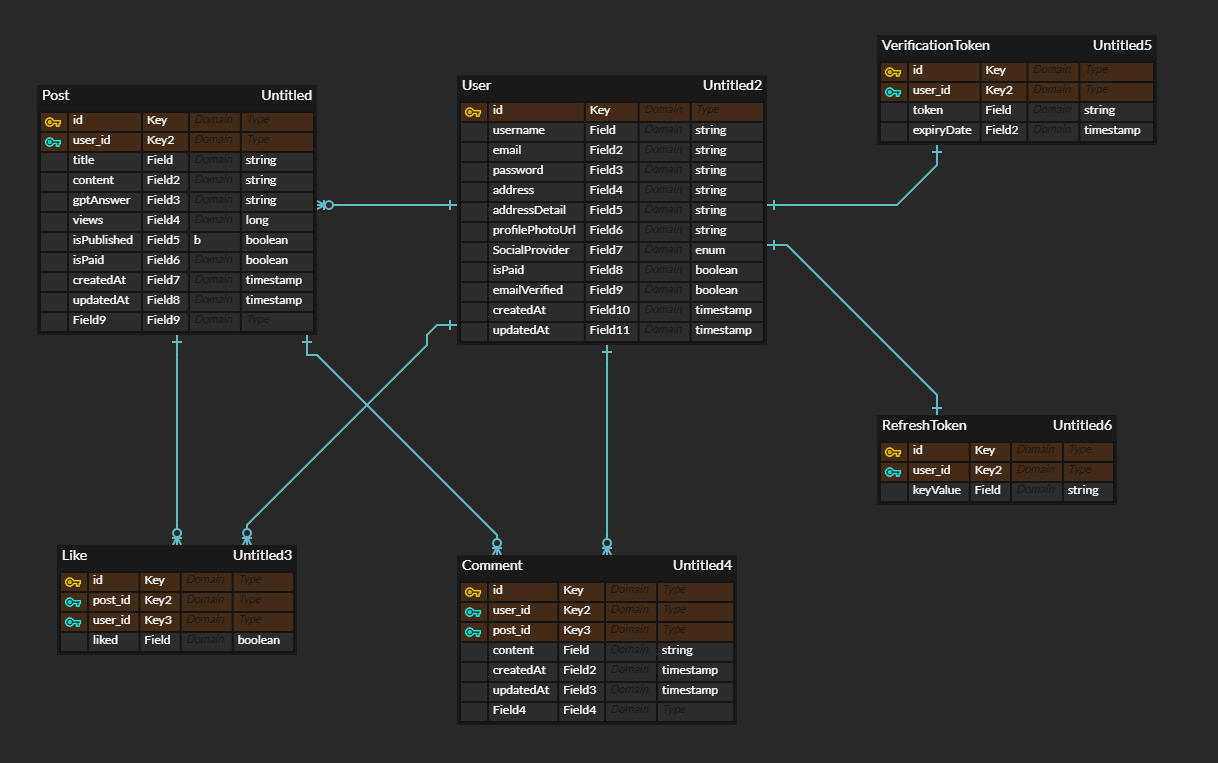
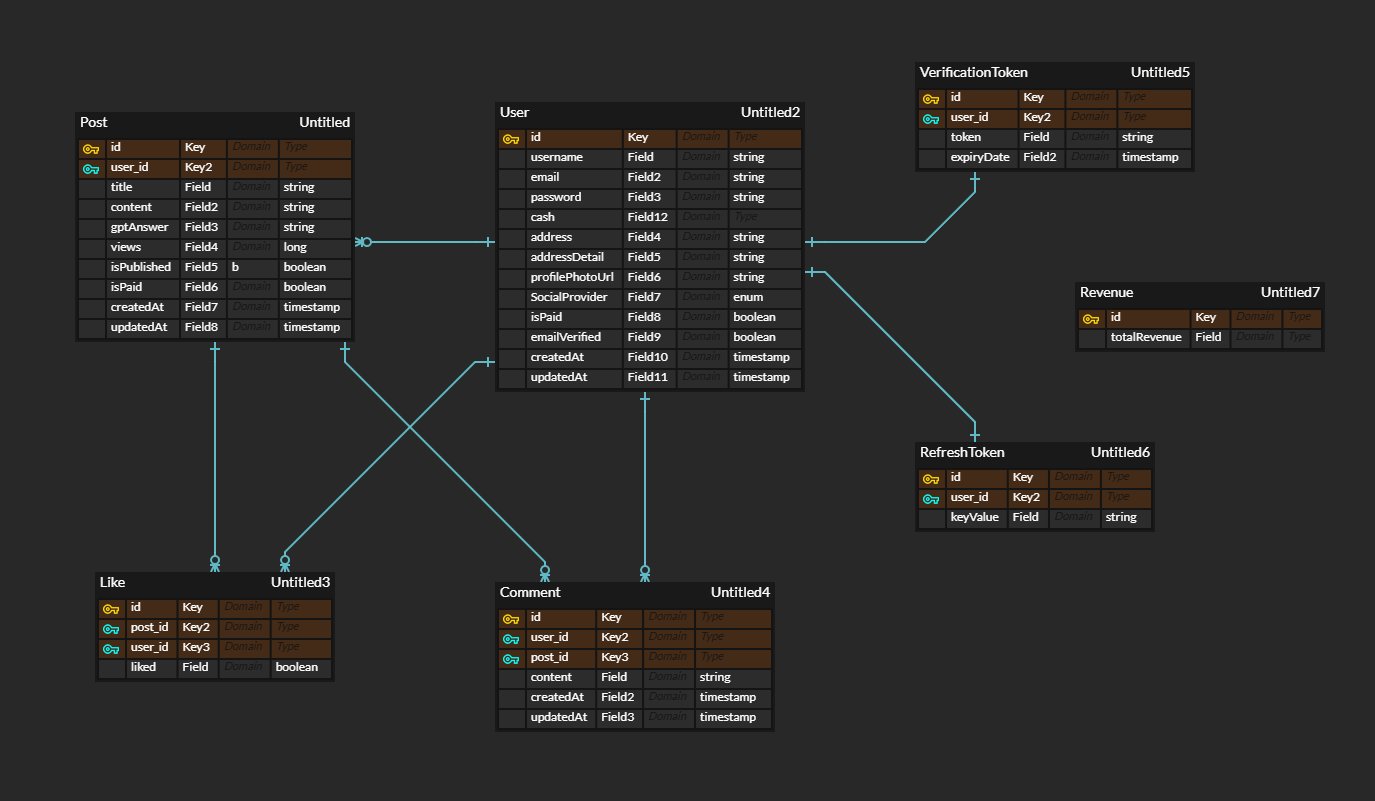
docs : README.md 최종 수정

diff --git a/src/test/java/com/ll/medium/common/config/MonthlyEarningSchedulerTest.java b/src/test/java/com/ll/medium/common/config/MonthlyEarningSchedulerTest.java
@@ -2,6 +2,7 @@ package com.ll.medium.common.config;
 
 import com.ll.medium.post.repository.PostRepository;
 import org.junit.Test;
+import org.junit.jupiter.api.DisplayName;
 import org.junit.runner.RunWith;
 import org.springframework.beans.factory.annotation.Autowired;
 import org.springframework.boot.test.context.SpringBootTest;
@@ -19,7 +20,8 @@ public class MonthlyEarningSchedulerTest {
     private MonthlyEarningScheduler monthlyEarningScheduler;
 
     @Test
-    public void testDistributeEarningsIntegration() {
+    @DisplayName("정산 기능 잘 되는지 테스트")
+    public void testDistributeEarnings() {
        monthlyEarningScheduler.distributeEarnings();
     }
 }

diff --git a/README.md b/README.md
@@ -25,11 +25,273 @@
 
 <hr>
 
-## ERD (업데이트 예정)
+## ERD
 
-![img_3.png](ERD.png)
+![img.png](ERD.png)
 
-## 4. 프로젝트 진행 상황
+## 파일 구조
+
+**[프론트엔드]**
+```bash
+📦src
+ ┣ 📂api
+ ┣ 📂app
+ ┃ ┣ 📂ai
+ ┃ ┃ ┗ 📜page.js
+ ┃ ┣ 📂api
+ ┃ ┃ ┗ 📂confirmPayment
+ ┃ ┃ ┃ ┗ 📜route.js
+ ┃ ┣ 📂auth
+ ┃ ┃ ┣ 📂signin
+ ┃ ┃ ┃ ┣ 📂kakao
+ ┃ ┃ ┃ ┃ ┗ 📂callback
+ ┃ ┃ ┃ ┃ ┃ ┗ 📜page.js
+ ┃ ┃ ┃ ┗ 📜page.js
+ ┃ ┃ ┗ 📂signup
+ ┃ ┃ ┃ ┗ 📜page.js
+ ┃ ┣ 📂board
+ ┃ ┃ ┣ 📂write
+ ┃ ┃ ┃ ┣ 📂[id]
+ ┃ ┃ ┃ ┃ ┗ 📜page.js
+ ┃ ┃ ┃ ┗ 📜page.js
+ ┃ ┃ ┣ 📂[id]
+ ┃ ┃ ┃ ┗ 📜page.js
+ ┃ ┃ ┗ 📜page.js
+ ┃ ┣ 📂membership
+ ┃ ┃ ┣ 📂fail
+ ┃ ┃ ┃ ┗ 📜page.js
+ ┃ ┃ ┣ 📂success
+ ┃ ┃ ┃ ┗ 📜page.js
+ ┃ ┃ ┗ 📜page.js
+ ┃ ┣ 📂mypage
+ ┃ ┃ ┣ 📂mycomment
+ ┃ ┃ ┃ ┗ 📜page.js
+ ┃ ┃ ┣ 📂mypost
+ ┃ ┃ ┃ ┗ 📜page.js
+ ┃ ┃ ┣ 📂myrecommend
+ ┃ ┃ ┃ ┗ 📜page.js
+ ┃ ┃ ┣ 📂userinfo
+ ┃ ┃ ┃ ┣ 📂delete
+ ┃ ┃ ┃ ┃ ┗ 📜page.js
+ ┃ ┃ ┃ ┣ 📂edit
+ ┃ ┃ ┃ ┃ ┗ 📜page.js
+ ┃ ┃ ┃ ┗ 📜page.js
+ ┃ ┃ ┣ 📜layout.js
+ ┃ ┃ ┗ 📜page.js
+ ┃ ┣ 📜layout.js
+ ┃ ┗ 📜page.js
+ ┣ 📂components
+ ┃ ┣ 📂auth
+ ┃ ┃ ┣ 📜DeleteUser.js
+ ┃ ┃ ┣ 📜EditUser.js
+ ┃ ┃ ┣ 📜KakaoLogin.js
+ ┃ ┃ ┣ 📜KakaoSignInCallback.js
+ ┃ ┃ ┣ 📜MyPageUserInfo.js
+ ┃ ┃ ┣ 📜SigninForm.js
+ ┃ ┃ ┗ 📜SignupForm.js
+ ┃ ┣ 📂comment
+ ┃ ┃ ┗ 📜Comment.js
+ ┃ ┣ 📂membership
+ ┃ ┃ ┣ 📜Checkout.js
+ ┃ ┃ ┣ 📜MembershipInfo.js
+ ┃ ┃ ┗ 📜SuccessPage.js
+ ┃ ┣ 📂post
+ ┃ ┃ ┣ 📜AllPost.js
+ ┃ ┃ ┣ 📜EditPost.js
+ ┃ ┃ ┣ 📜LikeButton.js
+ ┃ ┃ ┣ 📜MyPost.js
+ ┃ ┃ ┣ 📜Pagination.js
+ ┃ ┃ ┣ 📜Post.js
+ ┃ ┃ ┣ 📜PostDetail.js
+ ┃ ┃ ┣ 📜RecentPost.js
+ ┃ ┃ ┣ 📜SearchPost.js
+ ┃ ┃ ┗ 📜WritePost.js
+ ┃ ┗ 📂ui
+ ┃ ┃ ┣ 📜Chatbot.js
+ ┃ ┃ ┣ 📜CustomToast.js
+ ┃ ┃ ┣ 📜Dropdown.js
+ ┃ ┃ ┣ 📜MyPageSidebar.js
+ ┃ ┃ ┣ 📜Navbar.js
+ ┃ ┃ ┗ 📜ProfilePicture.js
+ ┣ 📂config
+ ┃ ┗ 📜axios-config.js
+ ┣ 📂constants
+ ┃ ┗ 📜auth.js
+ ┣ 📂context
+ ┃ ┗ 📜TanStackProvider.js
+ ┣ 📂hooks
+ ┃ ┗ 📜useUser.js
+ ┣ 📂styles
+ ┃ ┣ 📜globals.css
+ ┃ ┗ 📜toss.css
+ ┗ 📂utils
+ ┃ ┣ 📜comment.js
+ ┃ ┣ 📜openai.js
+ ┃ ┣ 📜post.js
+ ┃ ┗ 📜regex.js
+```
+[백엔드]
+```bash
+📦src
+ ┣ 📂main
+ ┃ ┣ 📂generated
+ ┃ ┃ ┗ 📂com
+ ┃ ┃ ┃ ┗ 📂ll
+ ┃ ┃ ┃ ┃ ┗ 📂medium
+ ┃ ┃ ┃ ┃ ┃ ┣ 📂comment
+ ┃ ┃ ┃ ┃ ┃ ┃ ┗ 📂entity
+ ┃ ┃ ┃ ┃ ┃ ┃ ┃ ┗ 📜QComment.java
+ ┃ ┃ ┃ ┃ ┃ ┣ 📂common
+ ┃ ┃ ┃ ┃ ┃ ┃ ┗ 📂entity
+ ┃ ┃ ┃ ┃ ┃ ┃ ┃ ┗ 📜QDateEntity.java
+ ┃ ┃ ┃ ┃ ┃ ┣ 📂like
+ ┃ ┃ ┃ ┃ ┃ ┃ ┗ 📂entity
+ ┃ ┃ ┃ ┃ ┃ ┃ ┃ ┗ 📜QLike.java
+ ┃ ┃ ┃ ┃ ┃ ┣ 📂post
+ ┃ ┃ ┃ ┃ ┃ ┃ ┗ 📂entity
+ ┃ ┃ ┃ ┃ ┃ ┃ ┃ ┗ 📜QPost.java
+ ┃ ┃ ┃ ┃ ┃ ┣ 📂revenue
+ ┃ ┃ ┃ ┃ ┃ ┃ ┗ 📂entity
+ ┃ ┃ ┃ ┃ ┃ ┃ ┃ ┗ 📜QRevenue.java
+ ┃ ┃ ┃ ┃ ┃ ┗ 📂user
+ ┃ ┃ ┃ ┃ ┃ ┃ ┗ 📂entity
+ ┃ ┃ ┃ ┃ ┃ ┃ ┃ ┣ 📜QRefreshToken.java
+ ┃ ┃ ┃ ┃ ┃ ┃ ┃ ┣ 📜QUser.java
+ ┃ ┃ ┃ ┃ ┃ ┃ ┃ ┗ 📜QVerificationToken.java
+ ┃ ┣ 📂java
+ ┃ ┃ ┗ 📂com
+ ┃ ┃ ┃ ┗ 📂ll
+ ┃ ┃ ┃ ┃ ┗ 📂medium
+ ┃ ┃ ┃ ┃ ┃ ┣ 📂comment
+ ┃ ┃ ┃ ┃ ┃ ┃ ┣ 📂controller
+ ┃ ┃ ┃ ┃ ┃ ┃ ┃ ┗ 📜CommentController.java
+ ┃ ┃ ┃ ┃ ┃ ┃ ┣ 📂dto
+ ┃ ┃ ┃ ┃ ┃ ┃ ┃ ┣ 📜CommentDto.java
+ ┃ ┃ ┃ ┃ ┃ ┃ ┃ ┣ 📜CommentSaveDto.java
+ ┃ ┃ ┃ ┃ ┃ ┃ ┃ ┗ 📜CommentUpdateDto.java
+ ┃ ┃ ┃ ┃ ┃ ┃ ┣ 📂entity
+ ┃ ┃ ┃ ┃ ┃ ┃ ┃ ┗ 📜Comment.java
+ ┃ ┃ ┃ ┃ ┃ ┃ ┣ 📂repository
+ ┃ ┃ ┃ ┃ ┃ ┃ ┃ ┗ 📜CommentRepository.java
+ ┃ ┃ ┃ ┃ ┃ ┃ ┗ 📂service
+ ┃ ┃ ┃ ┃ ┃ ┃ ┃ ┗ 📜CommentService.java
+ ┃ ┃ ┃ ┃ ┃ ┣ 📂common
+ ┃ ┃ ┃ ┃ ┃ ┃ ┣ 📂config
+ ┃ ┃ ┃ ┃ ┃ ┃ ┃ ┣ 📜MonthlyEarningScheduler.java
+ ┃ ┃ ┃ ┃ ┃ ┃ ┃ ┣ 📜NotProd.java
+ ┃ ┃ ┃ ┃ ┃ ┃ ┃ ┣ 📜SecurityConfig.java
+ ┃ ┃ ┃ ┃ ┃ ┃ ┃ ┗ 📜WebConfig.java
+ ┃ ┃ ┃ ┃ ┃ ┃ ┣ 📂controller
+ ┃ ┃ ┃ ┃ ┃ ┃ ┃ ┣ 📜CorsCheckController.java
+ ┃ ┃ ┃ ┃ ┃ ┃ ┃ ┣ 📜HomeController.java
+ ┃ ┃ ┃ ┃ ┃ ┃ ┃ ┗ 📜SearchController.java
+ ┃ ┃ ┃ ┃ ┃ ┃ ┣ 📂dto
+ ┃ ┃ ┃ ┃ ┃ ┃ ┃ ┣ 📜ErrorResponseDto.java
+ ┃ ┃ ┃ ┃ ┃ ┃ ┃ ┗ 📜ResponseDto.java
+ ┃ ┃ ┃ ┃ ┃ ┃ ┣ 📂entity
+ ┃ ┃ ┃ ┃ ┃ ┃ ┃ ┗ 📜DateEntity.java
+ ┃ ┃ ┃ ┃ ┃ ┃ ┗ 📂exception
+ ┃ ┃ ┃ ┃ ┃ ┃ ┃ ┗ 📜DataNotFoundException.java
+ ┃ ┃ ┃ ┃ ┃ ┣ 📂like
+ ┃ ┃ ┃ ┃ ┃ ┃ ┣ 📂controller
+ ┃ ┃ ┃ ┃ ┃ ┃ ┃ ┗ 📜LikeController.java
+ ┃ ┃ ┃ ┃ ┃ ┃ ┣ 📂dto
+ ┃ ┃ ┃ ┃ ┃ ┃ ┃ ┣ 📜LikeRequestDto.java
+ ┃ ┃ ┃ ┃ ┃ ┃ ┃ ┣ 📜LikeStatus.java
+ ┃ ┃ ┃ ┃ ┃ ┃ ┃ ┗ 📜LikeStatusDto.java
+ ┃ ┃ ┃ ┃ ┃ ┃ ┣ 📂entity
+ ┃ ┃ ┃ ┃ ┃ ┃ ┃ ┗ 📜Like.java
+ ┃ ┃ ┃ ┃ ┃ ┃ ┣ 📂repository
+ ┃ ┃ ┃ ┃ ┃ ┃ ┃ ┗ 📜LikeRepository.java
+ ┃ ┃ ┃ ┃ ┃ ┃ ┗ 📂service
+ ┃ ┃ ┃ ┃ ┃ ┃ ┃ ┗ 📜LikeService.java
+ ┃ ┃ ┃ ┃ ┃ ┣ 📂post
+ ┃ ┃ ┃ ┃ ┃ ┃ ┣ 📂controller
+ ┃ ┃ ┃ ┃ ┃ ┃ ┃ ┗ 📜PostController.java
+ ┃ ┃ ┃ ┃ ┃ ┃ ┣ 📂dto
+ ┃ ┃ ┃ ┃ ┃ ┃ ┃ ┣ 📜PostDetailDto.java
+ ┃ ┃ ┃ ┃ ┃ ┃ ┃ ┣ 📜PostDto.java
+ ┃ ┃ ┃ ┃ ┃ ┃ ┃ ┣ 📜PostPageDto.java
+ ┃ ┃ ┃ ┃ ┃ ┃ ┃ ┣ 📜PostRequestDto.java
+ ┃ ┃ ┃ ┃ ┃ ┃ ┃ ┗ 📜PostUpdateDto.java
+ ┃ ┃ ┃ ┃ ┃ ┃ ┣ 📂entity
+ ┃ ┃ ┃ ┃ ┃ ┃ ┃ ┗ 📜Post.java
+ ┃ ┃ ┃ ┃ ┃ ┃ ┣ 📂repository
+ ┃ ┃ ┃ ┃ ┃ ┃ ┃ ┣ 📜PostRepository.java
+ ┃ ┃ ┃ ┃ ┃ ┃ ┃ ┣ 📜PostRepositoryCustom.java
+ ┃ ┃ ┃ ┃ ┃ ┃ ┃ ┗ 📜PostRepositoryImpl.java
+ ┃ ┃ ┃ ┃ ┃ ┃ ┗ 📂service
+ ┃ ┃ ┃ ┃ ┃ ┃ ┃ ┗ 📜PostService.java
+ ┃ ┃ ┃ ┃ ┃ ┣ 📂revenue
+ ┃ ┃ ┃ ┃ ┃ ┃ ┣ 📂entity
+ ┃ ┃ ┃ ┃ ┃ ┃ ┃ ┗ 📜Revenue.java
+ ┃ ┃ ┃ ┃ ┃ ┃ ┗ 📂repository
+ ┃ ┃ ┃ ┃ ┃ ┃ ┃ ┗ 📜RevenueRepository.java
+ ┃ ┃ ┃ ┃ ┃ ┣ 📂user
+ ┃ ┃ ┃ ┃ ┃ ┃ ┣ 📂config
+ ┃ ┃ ┃ ┃ ┃ ┃ ┃ ┣ 📜EmailConfig.java
+ ┃ ┃ ┃ ┃ ┃ ┃ ┃ ┣ 📜MailProperties.java
+ ┃ ┃ ┃ ┃ ┃ ┃ ┃ ┗ 📜WebClientConfig.java
+ ┃ ┃ ┃ ┃ ┃ ┃ ┣ 📂controller
+ ┃ ┃ ┃ ┃ ┃ ┃ ┃ ┣ 📜AuthController.java
+ ┃ ┃ ┃ ┃ ┃ ┃ ┃ ┣ 📜EmailController.java
+ ┃ ┃ ┃ ┃ ┃ ┃ ┃ ┣ 📜OAuthController.java
+ ┃ ┃ ┃ ┃ ┃ ┃ ┃ ┗ 📜UserController.java
+ ┃ ┃ ┃ ┃ ┃ ┃ ┣ 📂dto
+ ┃ ┃ ┃ ┃ ┃ ┃ ┃ ┣ 📜CheckUserExistDto.java
+ ┃ ┃ ┃ ┃ ┃ ┃ ┃ ┣ 📜KakaoCodeDto.java
+ ┃ ┃ ┃ ┃ ┃ ┃ ┃ ┣ 📜KakaoPropertiesDto.java
+ ┃ ┃ ┃ ┃ ┃ ┃ ┃ ┣ 📜KakaoTokenResponseDto.java
+ ┃ ┃ ┃ ┃ ┃ ┃ ┃ ┣ 📜KakaoUserInfoDto.java
+ ┃ ┃ ┃ ┃ ┃ ┃ ┃ ┣ 📜LoginRequestDto.java
+ ┃ ┃ ┃ ┃ ┃ ┃ ┃ ┣ 📜LoginResponseDto.java
+ ┃ ┃ ┃ ┃ ┃ ┃ ┃ ┣ 📜UserInfoDto.java
+ ┃ ┃ ┃ ┃ ┃ ┃ ┃ ┣ 📜UserRegisterDto.java
+ ┃ ┃ ┃ ┃ ┃ ┃ ┃ ┗ 📜UserUpdateDto.java
+ ┃ ┃ ┃ ┃ ┃ ┃ ┣ 📂entity
+ ┃ ┃ ┃ ┃ ┃ ┃ ┃ ┣ 📜RefreshToken.java
+ ┃ ┃ ┃ ┃ ┃ ┃ ┃ ┣ 📜SocialProvider.java
+ ┃ ┃ ┃ ┃ ┃ ┃ ┃ ┣ 📜User.java
+ ┃ ┃ ┃ ┃ ┃ ┃ ┃ ┣ 📜UserRole.java
+ ┃ ┃ ┃ ┃ ┃ ┃ ┃ ┗ 📜VerificationToken.java
+ ┃ ┃ ┃ ┃ ┃ ┃ ┣ 📂exception
+ ┃ ┃ ┃ ┃ ┃ ┃ ┃ ┗ 📜UserNotFoundException.java
+ ┃ ┃ ┃ ┃ ┃ ┃ ┣ 📂repository
+ ┃ ┃ ┃ ┃ ┃ ┃ ┃ ┣ 📜RefreshTokenRepository.java
+ ┃ ┃ ┃ ┃ ┃ ┃ ┃ ┣ 📜UserRepository.java
+ ┃ ┃ ┃ ┃ ┃ ┃ ┃ ┗ 📜VerificationTokenRepository.java
+ ┃ ┃ ┃ ┃ ┃ ┃ ┣ 📂security
+ ┃ ┃ ┃ ┃ ┃ ┃ ┃ ┣ 📜JwtAuthenticationFilter.java
+ ┃ ┃ ┃ ┃ ┃ ┃ ┃ ┣ 📜JwtTokenUtil.java
+ ┃ ┃ ┃ ┃ ┃ ┃ ┃ ┣ 📜UserDetailsServiceImpl.java
+ ┃ ┃ ┃ ┃ ┃ ┃ ┃ ┗ 📜UserPrinciple.java
+ ┃ ┃ ┃ ┃ ┃ ┃ ┗ 📂service
+ ┃ ┃ ┃ ┃ ┃ ┃ ┃ ┣ 📜AuthService.java
+ ┃ ┃ ┃ ┃ ┃ ┃ ┃ ┣ 📜DevAuthService.java
+ ┃ ┃ ┃ ┃ ┃ ┃ ┃ ┣ 📜EmailService.java
+ ┃ ┃ ┃ ┃ ┃ ┃ ┃ ┣ 📜KakaoOAuth2Service.java
+ ┃ ┃ ┃ ┃ ┃ ┃ ┃ ┣ 📜ProdAuthService.java
+ ┃ ┃ ┃ ┃ ┃ ┃ ┃ ┗ 📜UserService.java
+ ┃ ┃ ┃ ┃ ┃ ┗ 📜MediumApplication.java
+ ┃ ┗ 📂resources
+ ┃ ┃ ┣ 📂templates
+ ┃ ┃ ┣ 📜application-db.yml
+ ┃ ┃ ┣ 📜application-devdb.yml
+ ┃ ┃ ┣ 📜application-mail.yml
+ ┃ ┃ ┣ 📜application-security.yml
+ ┃ ┃ ┗ 📜application.yml
+ ┗ 📂test
+ ┃ ┗ 📂java
+ ┃ ┃ ┗ 📂com
+ ┃ ┃ ┃ ┗ 📂ll
+ ┃ ┃ ┃ ┃ ┗ 📂medium
+ ┃ ┃ ┃ ┃ ┃ ┗ 📂common
+ ┃ ┃ ┃ ┃ ┃ ┃ ┗ 📂config
+ ┃ ┃ ┃ ┃ ┃ ┃ ┃ ┗ 📜MonthlyEarningSchedulerTest.java
+```
+
+
+## 4. 기능
 
 
 <hr>
@@ -48,10 +310,8 @@
 - [x] **조회수 기능**
 - [x] **추천 기능**
 - [x] **검색 기능**
+- [x] **멤버쉽 정산 기능**
 
-### 구현할 기능
-
-- [] **멤버쉽 정산 기능**
 
 ### 추가 기능
 
